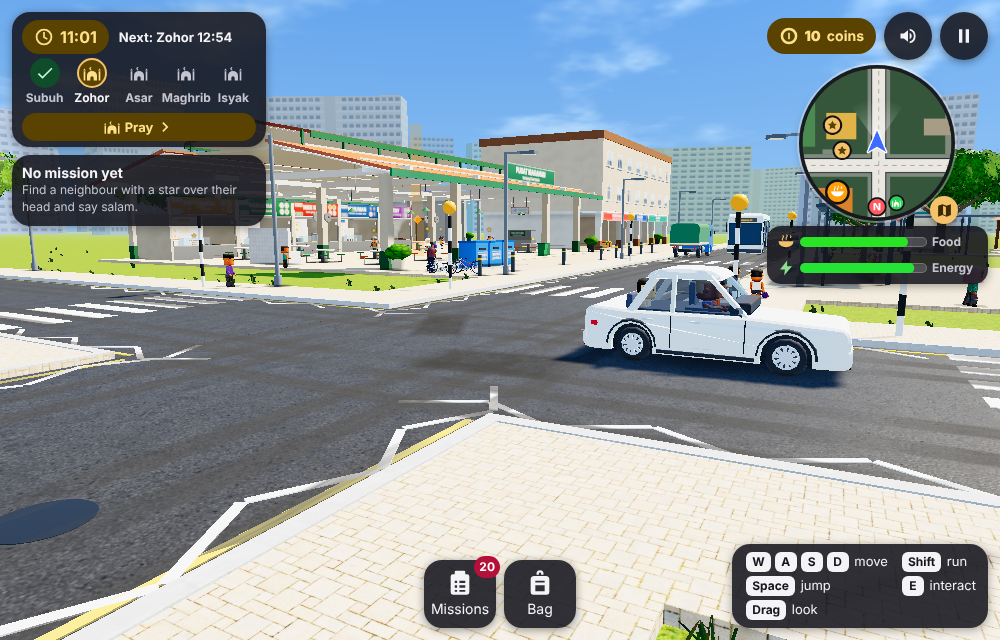
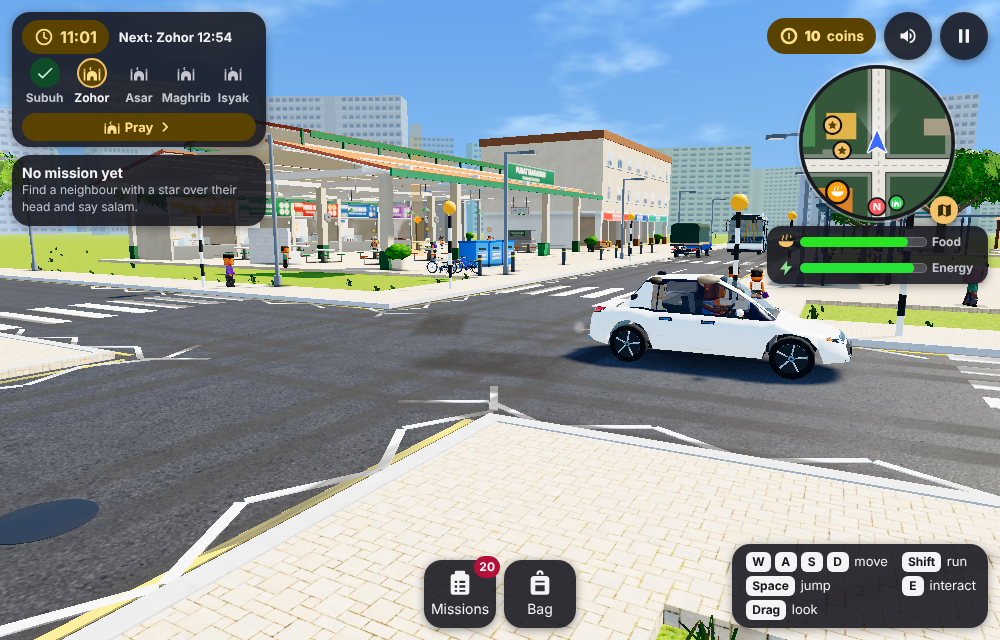
Vehicle life: bus crossing patience, brighter exhaust, dusk lights test fixes, screenshots with the real rig
Claude-Session: https://claude.ai/code/session_01ByYswPMkXPocYkHxxXU6v5

Changed region(s): [[0.558, 0.3125, 0.868, 0.625], [0.403, 0.375, 0.496, 0.4375]]

diff --git a/games/kampung-quest/js/game/bus.js b/games/kampung-quest/js/game/bus.js
@@ -33,6 +33,8 @@
   /** Held this long (s) by someone beside its path, the bus creeps past at CREEP m/s (see creepCap). */
   const CREEP_AFTER = 6;
   const CREEP = 0.8;
+  /** Held this long (s), the bus stops holding back for the crossing's people for the next 12 s (loiterers). */
+  const CROSSING_PATIENCE = 3;
   /** The middle door and the front door (z in the bus frame) and how far out the pavement spot is (lateral). */
   const DOOR_MID = 0.35;
   const DOOR_FRONT = 3.95;
@@ -64,6 +66,7 @@
     runs: 0,
     clock: 0,
     heldT: 0,
+    noHoldUntil: 0,
     elapsed: 0,
     plan: [],
     pending: 0,
@@ -157,7 +160,7 @@
    */
   function crossingHolds(people) {
     const L = KQ.WorldParts && KQ.WorldParts.LAYOUT;
-    if (!L) return [];
+    if (!L || B.clock < B.noHoldUntil) return []; // someone loitering at the crossing must not hold it for good
     const sim = B.sim;
     const nose = sim.x + B.dir * sim.spec.halfLen;
     const out = [];
@@ -211,6 +214,7 @@
     const sim = B.sim;
     const want = wanted();
     B.heldT = sim.speed < 0.2 && want < 0.5 ? B.heldT + dt : 0;
+    if (B.heldT > CROSSING_PATIENCE) B.noHoldUntil = B.clock + 12;
     if (sim.speed > want) SV().brakeFor(sim, want, dt);
     else sim.speed = Math.min(want, sim.speed + sim.spec.accel * dt);
     const nx = sim.x + B.dir * sim.speed * dt;

diff --git a/games/kampung-quest/js/sim/vehicle-life.js b/games/kampung-quest/js/sim/vehicle-life.js
@@ -252,8 +252,8 @@
    * pull-away), how pale the smoke is (1 white, 0 black), and the size of a fresh puff (m). Electric: nothing.
    */
   const FUELS = {
-    petrol: { idle: 1.1, perAccel: 1.2, pale: 0.92, size: 0.14 },
-    diesel: { idle: 1.5, perAccel: 2.4, pale: 0.68, size: 0.18 },
+    petrol: { idle: 1.1, perAccel: 1.2, pale: 1, size: 0.17 },
+    diesel: { idle: 1.5, perAccel: 2.4, pale: 0.78, size: 0.21 },
   };
   const MAX_PUFF_RATE = 9;
 
@@ -285,7 +285,7 @@
     const k = clamp(age / PUFF_LIFE, 0, 1);
     return {
       size: size * (1 + 2 * Math.sqrt(k)),
-      alpha: 0.6 * (1 - k) * Math.min(1, age / 0.08),
+      alpha: 0.85 * (1 - k) * Math.min(1, age / 0.08),
       rise: PUFF_RISE * age,
       alive: age < PUFF_LIFE,
     };

diff --git a/features/kampung-quest-playability/notes-vehicle-life.md b/features/kampung-quest-playability/notes-vehicle-life.md
@@ -71,3 +71,9 @@ Owner ask (abridged): other characters drive the cars and ride in them; people a
 - **A stopped bus and strollers could wait for each other for ever** (7:30, a busy zebra crossing at x 30: strollers were held by the bus's body, which they cannot cross, and the bus by them). Fixes: a stroller held up by a vehicle for 4 s leaves even in view (`crowd-walkers.js STUCK_GIVE_UP`); the bus never stops with its nose on a zebra crossing someone stands at (`Bus.crossingHolds`, it holds 2.6 m before the stripes); after 6 s held it creeps past anyone beside (not in front of) its path at 0.8 m/s (`creepCap`). `Bus.debug().blockedBy` names what holds it.
 - **Exhaust shader:** `smoothstep(0.5, 0.12, d)` has reversed edges (undefined in GLSL), so every puff was invisible; it is `1 - smoothstep(0.12, 0.5, d)` now, and the puffs are paler (petrol 0.92, diesel 0.68) so they show on the dark asphalt.
 - **Makkah lanes** are 1.3 m off the street's middle, not 3: the world's parked cars stand at +-3 m, in the usual lanes, and held every traffic car up.
+
+## Screenshots and last results
+
+- `shots/vehicle-life-door-entry.png` (the hero at the driver's door, the real door open), `-traffic-car.png` (a driver and passengers seen through the glass), `-bus-boarding.png` (the bus at the stop, passengers seated in its windows, people waiting to board), `-exhaust-pull-away.png` (a faint grey wisp under the bumper of a car pulling away: puffs are small and subtle by design), `-brake-lights-dusk.png` (18:52, the hero's car braking, head and brake lamps lit). Re-take with `node features/kampung-quest-playability/vehicle-life-shots.mjs [door,traffic,bus,exhaust,dusk]`.
+- Audited view (looks branch probe, low tier): `vehicles-measure.mjs calls bus` with `Q=low`: bus-stop view 371 calls with the bus at the stop, 360 without. Two traffic cars in that same view add about 9 calls each, so it stays under 400 but with little room.
+- Full run of `kampung-quest-{vehicle-life,vehicles,vehicles-ground,vehicles-all,mounts,collision,crowd,life,ac}` (non-@slow): everything passes except `ac.spec` "tall sheets scroll inside the stage; the barber shows two columns" (2.2 px vs < 2 px; fails on the base commit too). `npm run test:kq`: 482 pass. The "each car is a moving solid" spec takes about 2 minutes on a loaded machine (the page stalls after the previous spec's frames; not the code under test).
